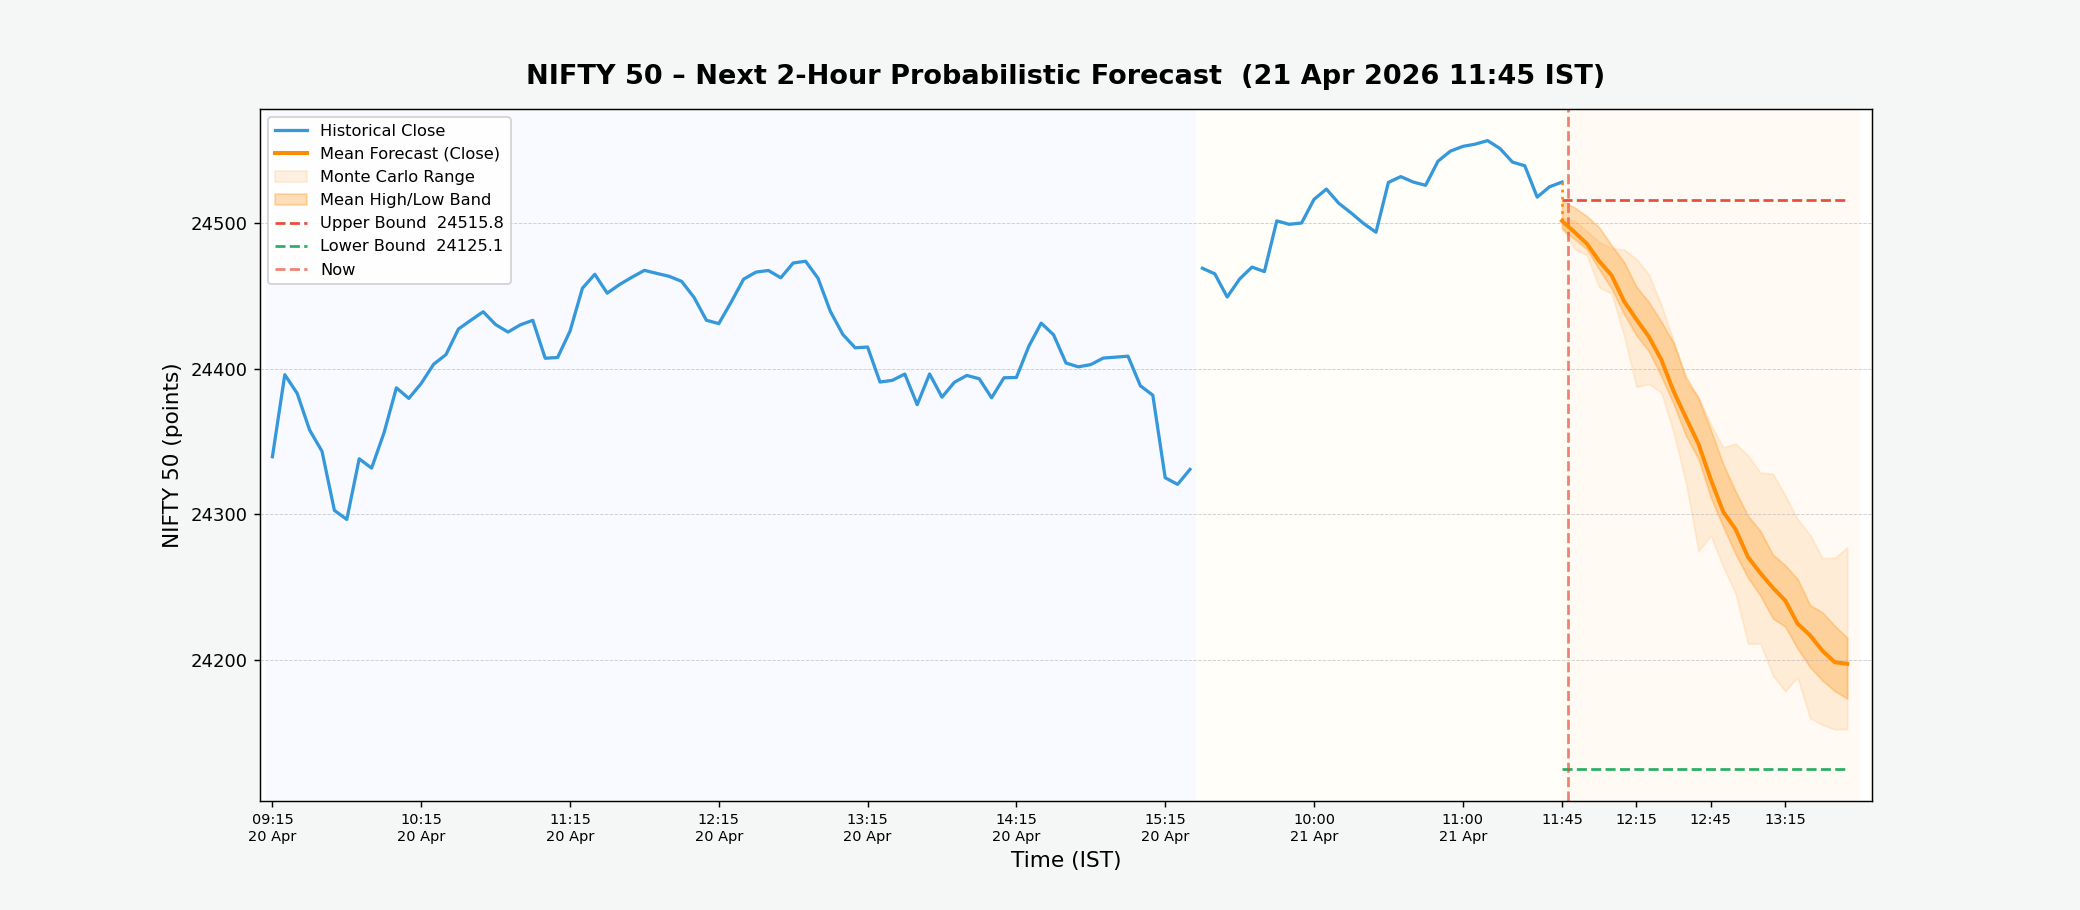
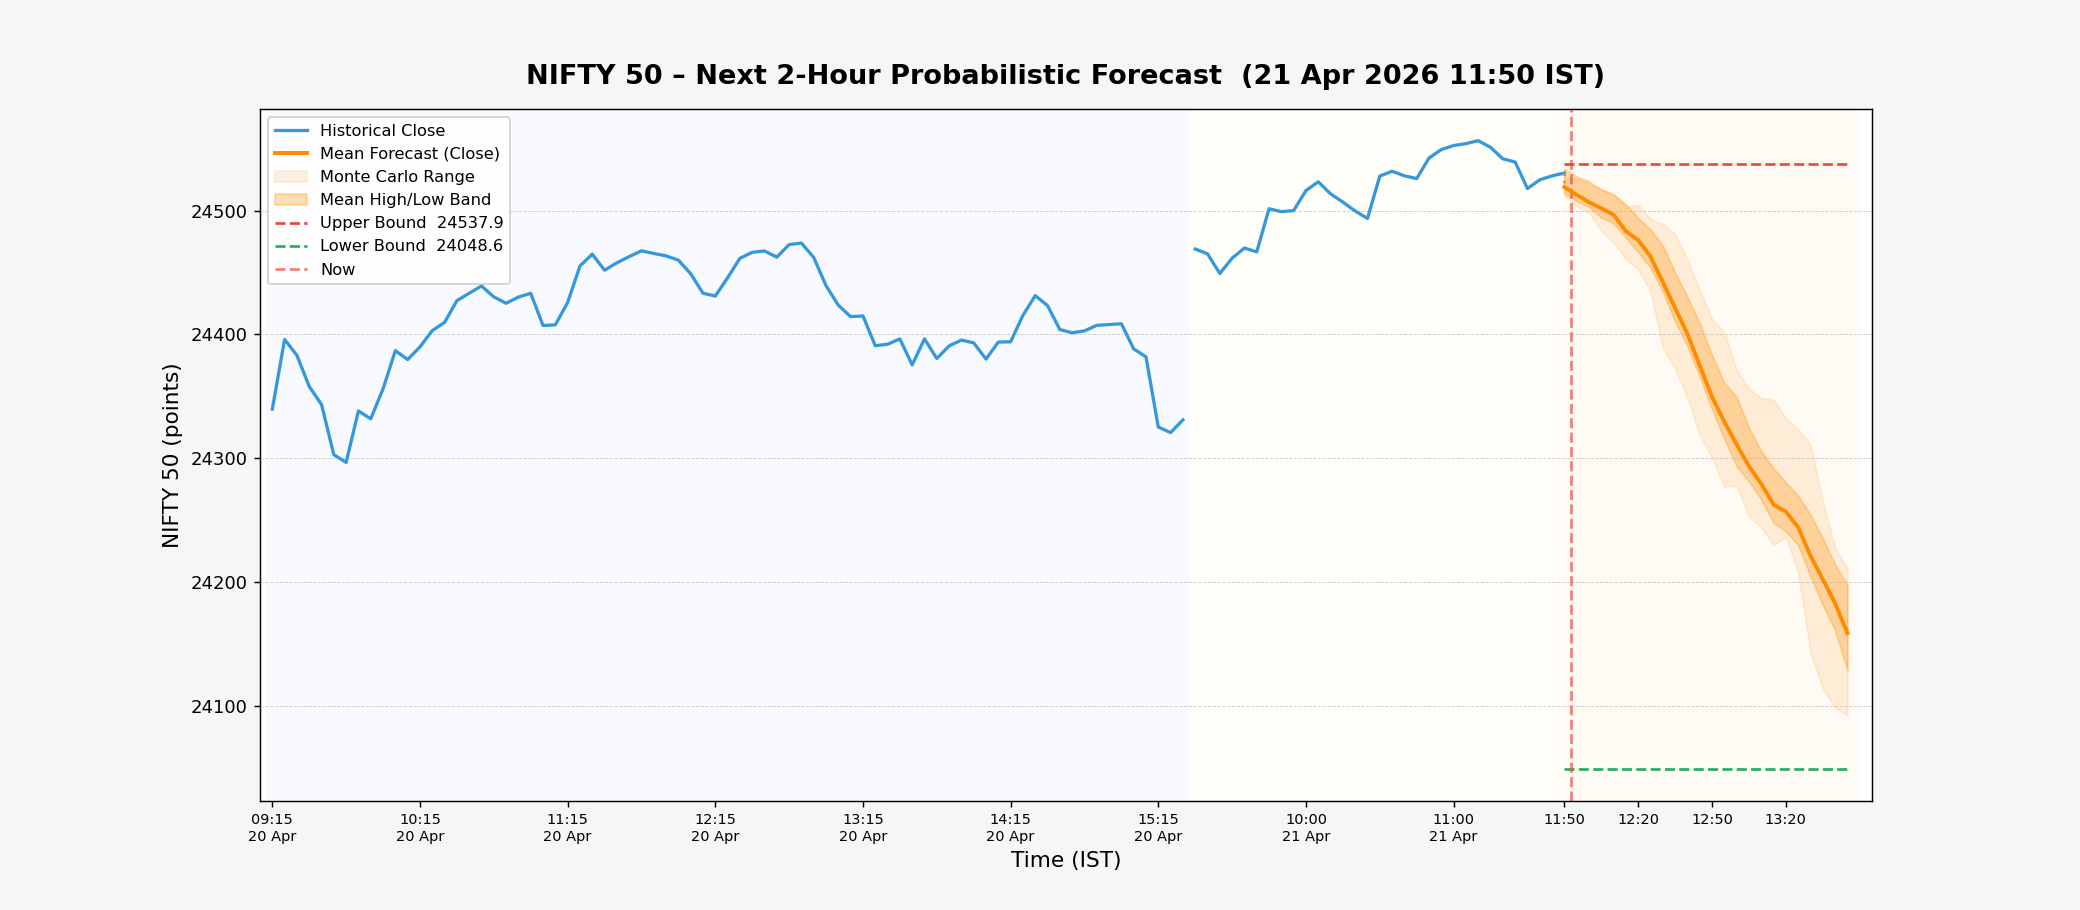
NIFTY forecast update – 2026-04-21 11:50 IST

diff --git a/index.html b/index.html
@@ -24,29 +24,29 @@
 
         <!-- Timestamp bar -->
         <div class="timestamp-bar">
-            <span>Last updated (IST):&nbsp;<strong id="update-time">2026-04-21 11:45:04</strong></span>
+            <span>Last updated (IST):&nbsp;<strong id="update-time">2026-04-21 11:50:04</strong></span>
         </div>
 
         <!-- Metric cards -->
         <div class="metrics-container">
             <div class="metric-card bullish">
                 <div class="metric-label">Bullish Bar Ratio</div>
-                <div class="metric-value" id="upside-prob">12.1%</div>
+                <div class="metric-value" id="upside-prob">4.2%</div>
                 <div class="metric-sub">Next 2h · close &gt; open %</div>
             </div>
             <div class="metric-card upper">
                 <div class="metric-label">Upper Bound</div>
-                <div class="metric-value" id="upper-bound">24515.8</div>
+                <div class="metric-value" id="upper-bound">24537.9</div>
                 <div class="metric-sub">Max predicted high</div>
             </div>
             <div class="metric-card lower">
                 <div class="metric-label">Lower Bound</div>
-                <div class="metric-value" id="lower-bound">24125.1</div>
+                <div class="metric-value" id="lower-bound">24048.6</div>
                 <div class="metric-sub">Min predicted low</div>
             </div>
             <div class="metric-card range">
                 <div class="metric-label">Predicted Range</div>
-                <div class="metric-value" id="pred-range">390.7 pts</div>
+                <div class="metric-value" id="pred-range">489.3 pts</div>
                 <div class="metric-sub">Upper − Lower spread</div>
             </div>
         </div>
